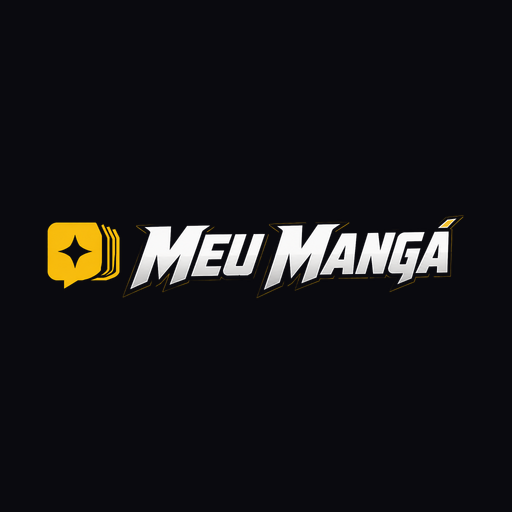
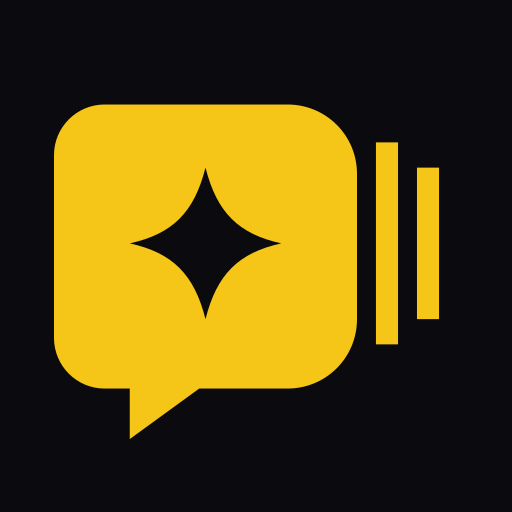
feat: refresh brand assets and SEO metadata

diff --git a/src/app/layout.tsx b/src/app/layout.tsx
@@ -1,7 +1,7 @@
 import type { Metadata } from "next";
 import { Anton, JetBrains_Mono } from "next/font/google";
 import { ServiceWorkerRegister } from "@/components/pwa/sw-register";
-import { SITE_NAME, SITE_URL } from "@/lib/site";
+import { SITE_DESCRIPTION, SITE_NAME, SITE_TAGLINE, SITE_URL } from "@/lib/site";
 import "./globals.css";
 
 const anton = Anton({
@@ -19,25 +19,56 @@ const jetbrains = JetBrains_Mono({
 
 export const metadata: Metadata = {
   metadataBase: new URL(SITE_URL),
+  applicationName: SITE_NAME,
   title: {
-    default: `${SITE_NAME} — mangás para ler`,
-    template: `%s · ${SITE_NAME}`,
+    default: `${SITE_NAME} | ${SITE_TAGLINE}`,
+    template: `%s | ${SITE_NAME}`,
   },
-  description: "Mangás publicados direto do estúdio: leia os capítulos, acompanhe suas obras favoritas e deixe seu comentário.",
+  description: SITE_DESCRIPTION,
+  keywords: ["mangá online", "ler mangá", "mangás brasileiros", "quadrinhos online", "capítulos de mangá"],
+  authors: [{ name: SITE_NAME, url: SITE_URL }],
+  creator: SITE_NAME,
+  publisher: SITE_NAME,
+  category: "entretenimento",
+  alternates: { canonical: "/" },
   openGraph: {
     type: "website",
     locale: "pt_BR",
     siteName: SITE_NAME,
-    title: `${SITE_NAME} — mangás para ler`,
-    description: "Mangás publicados direto do estúdio: leia os capítulos, acompanhe suas obras favoritas e deixe seu comentário.",
+    title: `${SITE_NAME} | ${SITE_TAGLINE}`,
+    description: SITE_DESCRIPTION,
     url: "/",
   },
   twitter: {
     card: "summary_large_image",
-    title: `${SITE_NAME} — mangás para ler`,
-    description: "Mangás publicados direto do estúdio: leia os capítulos, acompanhe suas obras favoritas e deixe seu comentário.",
+    title: `${SITE_NAME} | ${SITE_TAGLINE}`,
+    description: SITE_DESCRIPTION,
   },
-  robots: { index: true, follow: true },
+  robots: {
+    index: true,
+    follow: true,
+    googleBot: {
+      index: true,
+      follow: true,
+      "max-image-preview": "large",
+      "max-snippet": -1,
+      "max-video-preview": -1,
+    },
+  },
+};
+
+const websiteJsonLd = {
+  "@context": "https://schema.org",
+  "@type": "WebSite",
+  name: SITE_NAME,
+  url: SITE_URL,
+  description: SITE_DESCRIPTION,
+  inLanguage: "pt-BR",
+  potentialAction: {
+    "@type": "SearchAction",
+    target: `${SITE_URL}/?q={search_term_string}`,
+    "query-input": "required name=search_term_string",
+  },
 };
 
 export default function RootLayout({ children }: { children: React.ReactNode }) {
@@ -52,6 +83,10 @@ export default function RootLayout({ children }: { children: React.ReactNode }) 
         />
       </head>
       <body>
+        <script
+          type="application/ld+json"
+          dangerouslySetInnerHTML={{ __html: JSON.stringify(websiteJsonLd).replace(/</g, "\\u003c") }}
+        />
         {/* ============================================================
           MEU MANGÁ — direction contract (brief-pinned, code-first)
 

diff --git a/src/lib/social-image.tsx b/src/lib/social-image.tsx
@@ -1,0 +1,84 @@
+import { ImageResponse } from "next/og";
+import { SITE_DESCRIPTION, SITE_NAME } from "@/lib/site";
+
+export const SOCIAL_IMAGE_SIZE = { width: 1200, height: 630 };
+export const SOCIAL_IMAGE_ALT = `${SITE_NAME} — leia mangás online`;
+
+function BrandMark({ size }: { size: number }) {
+  return (
+    <svg width={size} height={size} viewBox="0 0 64 64" aria-hidden="true">
+      <path fill="#f5c518" d="M8 8h29c6.1 0 11 4.9 11 11v23c0 6.1-4.9 11-11 11H23L12 61v-8H8C3.6 53 0 49.4 0 45V16C0 11.6 3.6 8 8 8Z" />
+      <path fill="#0a0a0f" d="M24 18c1.8 7.1 5.2 10.5 12 12-6.8 1.5-10.2 4.9-12 12-1.8-7.1-5.2-10.5-12-12 6.8-1.5 10.2-4.9 12-12Z" />
+      <path fill="#f5c518" d="M51 14h3.5v32H51zM57.5 18H61v24h-3.5z" />
+    </svg>
+  );
+}
+
+export function createSocialImage() {
+  return new ImageResponse(
+    (
+      <div
+        style={{
+          width: "100%",
+          height: "100%",
+          display: "flex",
+          alignItems: "center",
+          background: "#0a0a0f",
+          color: "#ecebe6",
+          padding: "74px 82px",
+          position: "relative",
+          overflow: "hidden",
+        }}
+      >
+        <div
+          style={{
+            position: "absolute",
+            right: -95,
+            top: -120,
+            width: 430,
+            height: 430,
+            borderRadius: 215,
+            background: "#121218",
+            display: "flex",
+          }}
+        />
+        <div style={{ display: "flex", alignItems: "center", gap: 58, position: "relative" }}>
+          <div
+            style={{
+              width: 190,
+              height: 190,
+              display: "flex",
+              alignItems: "center",
+              justifyContent: "center",
+              background: "#121218",
+              border: "1px solid #262630",
+              borderRadius: 36,
+            }}
+          >
+            <BrandMark size={142} />
+          </div>
+          <div style={{ display: "flex", flexDirection: "column", maxWidth: 760 }}>
+            <div style={{ fontSize: 88, fontWeight: 900, letterSpacing: -2, lineHeight: 1, textTransform: "uppercase" }}>
+              {SITE_NAME}
+            </div>
+            <div style={{ marginTop: 28, color: "#a2a0ab", fontSize: 30, lineHeight: 1.35 }}>
+              {SITE_DESCRIPTION}
+            </div>
+          </div>
+        </div>
+        <div
+          style={{
+            position: "absolute",
+            left: 0,
+            right: 0,
+            bottom: 0,
+            height: 12,
+            display: "flex",
+            background: "#f5c518",
+          }}
+        />
+      </div>
+    ),
+    SOCIAL_IMAGE_SIZE,
+  );
+}

diff --git a/src/app/globals.css b/src/app/globals.css
@@ -337,43 +337,41 @@ a:hover {
 }
 .logo {
   font-family: var(--font-display);
-  font-size: 1.3rem;
-  letter-spacing: 0.02em;
   color: var(--paper);
   text-decoration: none;
   display: inline-flex;
   align-items: center;
-  gap: 0.55rem;
   white-space: nowrap;
+}
+.logo-lockup {
+  display: inline-flex;
+  align-items: center;
+  gap: 0.58rem;
 }
 .logo .logo-mark {
   display: inline-flex;
   align-items: center;
   justify-content: center;
   flex: 0 0 auto;
-  border-radius: 8px;
-  overflow: hidden;
   line-height: 0;
   transition: transform 0.15s var(--ease-out);
 }
 .logo .logo-mark .logo-img {
   display: block;
-  width: auto;
+  width: 2.25rem;
   height: 2.25rem;
-  object-fit: contain;
+  filter: drop-shadow(0 5px 10px color-mix(in srgb, var(--accent) 20%, transparent));
 }
-/* no tema escuro a versão clara; no claro, a versão tinta */
-.logo .logo-mark .logo-img-light {
-  display: none;
-}
-[data-theme="light"] .logo .logo-mark .logo-img-dark {
-  display: none;
-}
-[data-theme="light"] .logo .logo-mark .logo-img-light {
-  display: block;
+.logo-wordmark {
+  color: var(--paper);
+  font-family: var(--font-display);
+  font-size: 1.28rem;
+  line-height: 1;
+  letter-spacing: 0.015em;
+  text-transform: uppercase;
 }
 .logo:hover .logo-mark {
-  transform: rotate(-3deg) scale(1.03);
+  transform: rotate(-4deg) scale(1.04);
 }
 .site-nav {
   display: flex;
@@ -1920,6 +1918,47 @@ a:hover {
 }
 .header-search button:hover {
   color: var(--accent);
+}
+
+@media (max-width: 720px) {
+  .site-header-inner {
+    display: grid;
+    grid-template-columns: minmax(0, 1fr) auto;
+    grid-template-areas:
+      "brand theme"
+      "search search"
+      "nav nav";
+    gap: 0.6rem 0.8rem;
+    padding: 0.7rem 1rem;
+  }
+  .site-header-inner > .logo {
+    grid-area: brand;
+    justify-self: start;
+    min-width: 0;
+  }
+  .site-header-inner > .header-search {
+    grid-area: search;
+    width: 100%;
+    max-width: none;
+    margin: 0;
+    order: initial;
+  }
+  .site-header-inner > .site-nav {
+    grid-area: nav;
+    width: 100%;
+    margin: 0;
+    flex-wrap: nowrap;
+    overflow-x: auto;
+    scrollbar-width: none;
+    -webkit-overflow-scrolling: touch;
+  }
+  .site-header-inner > .site-nav::-webkit-scrollbar {
+    display: none;
+  }
+  .site-header-inner > .theme-toggle {
+    grid-area: theme;
+    justify-self: end;
+  }
 }
 
 /* genres dropdown (details/summary, no JS) */

diff --git a/src/components/ui/logo.tsx b/src/components/ui/logo.tsx
@@ -1,24 +1,17 @@
-/**
- * Marca do estúdio: imagem enviada pelo autor (public/logo.png), com fundo
- * removido. No tema escuro usa a versão clara; no claro, uma variante "tinta"
- * (public/logo-ink.png) para manter o contraste. A troca é feita por CSS
- * ([data-theme="light"]), sem JS.
- */
 export function LogoMark({ size = 36 }: { size?: number }) {
   return (
-    <>
-      {/* eslint-disable-next-line @next/next/no-img-element */}
-      <img src="/logo.png" alt="" height={size} className="logo-img logo-img-dark" style={{ height: size }} />
-      {/* eslint-disable-next-line @next/next/no-img-element */}
-      <img src="/logo-ink.png" alt="" height={size} className="logo-img logo-img-light" style={{ height: size }} />
-    </>
+    // eslint-disable-next-line @next/next/no-img-element
+    <img src="/logo-mark.svg" alt="" width={size} height={size} className="logo-img" />
   );
 }
 
 export function SiteLogo({ name }: { name: string }) {
   return (
-    <span className="logo-mark" aria-hidden="true">
-      <LogoMark size={36} />
+    <span className="logo-lockup" aria-hidden="true">
+      <span className="logo-mark">
+        <LogoMark size={36} />
+      </span>
+      <span className="logo-wordmark">{name}</span>
     </span>
   );
 }

diff --git a/src/app/manifest.ts b/src/app/manifest.ts
@@ -1,11 +1,11 @@
 import type { MetadataRoute } from "next";
-import { SITE_NAME } from "@/lib/site";
+import { SITE_DESCRIPTION, SITE_NAME } from "@/lib/site";
 
 export default function manifest(): MetadataRoute.Manifest {
   return {
     name: SITE_NAME,
     short_name: SITE_NAME,
-    description: "Mangás publicados direto do estúdio — capítulo por capítulo, página por página.",
+    description: SITE_DESCRIPTION,
     start_url: "/",
     scope: "/",
     display: "standalone",

diff --git a/src/lib/site.ts b/src/lib/site.ts
@@ -1,4 +1,7 @@
 export const SITE_NAME = process.env.SITE_NAME || "Meu Mangá";
+export const SITE_TAGLINE = "Leia mangás online";
+export const SITE_DESCRIPTION =
+  "Leia mangás online, descubra novas obras e acompanhe capítulos, favoritos e seu progresso de leitura em um só lugar.";
 
 /** URL pública do site — usada em metadata (og:image, sitemap, RSS). */
 export const SITE_URL = (process.env.SITE_URL || "http://localhost:3000").replace(/\/+$/, "");

diff --git a/src/app/opengraph-image.tsx b/src/app/opengraph-image.tsx
@@ -1,0 +1,7 @@
+import { createSocialImage, SOCIAL_IMAGE_ALT, SOCIAL_IMAGE_SIZE } from "@/lib/social-image";
+
+export const alt = SOCIAL_IMAGE_ALT;
+export const size = SOCIAL_IMAGE_SIZE;
+export const contentType = "image/png";
+
+export default createSocialImage;

diff --git a/src/app/twitter-image.tsx b/src/app/twitter-image.tsx
@@ -1,0 +1,7 @@
+import { createSocialImage, SOCIAL_IMAGE_ALT, SOCIAL_IMAGE_SIZE } from "@/lib/social-image";
+
+export const alt = SOCIAL_IMAGE_ALT;
+export const size = SOCIAL_IMAGE_SIZE;
+export const contentType = "image/png";
+
+export default createSocialImage;
